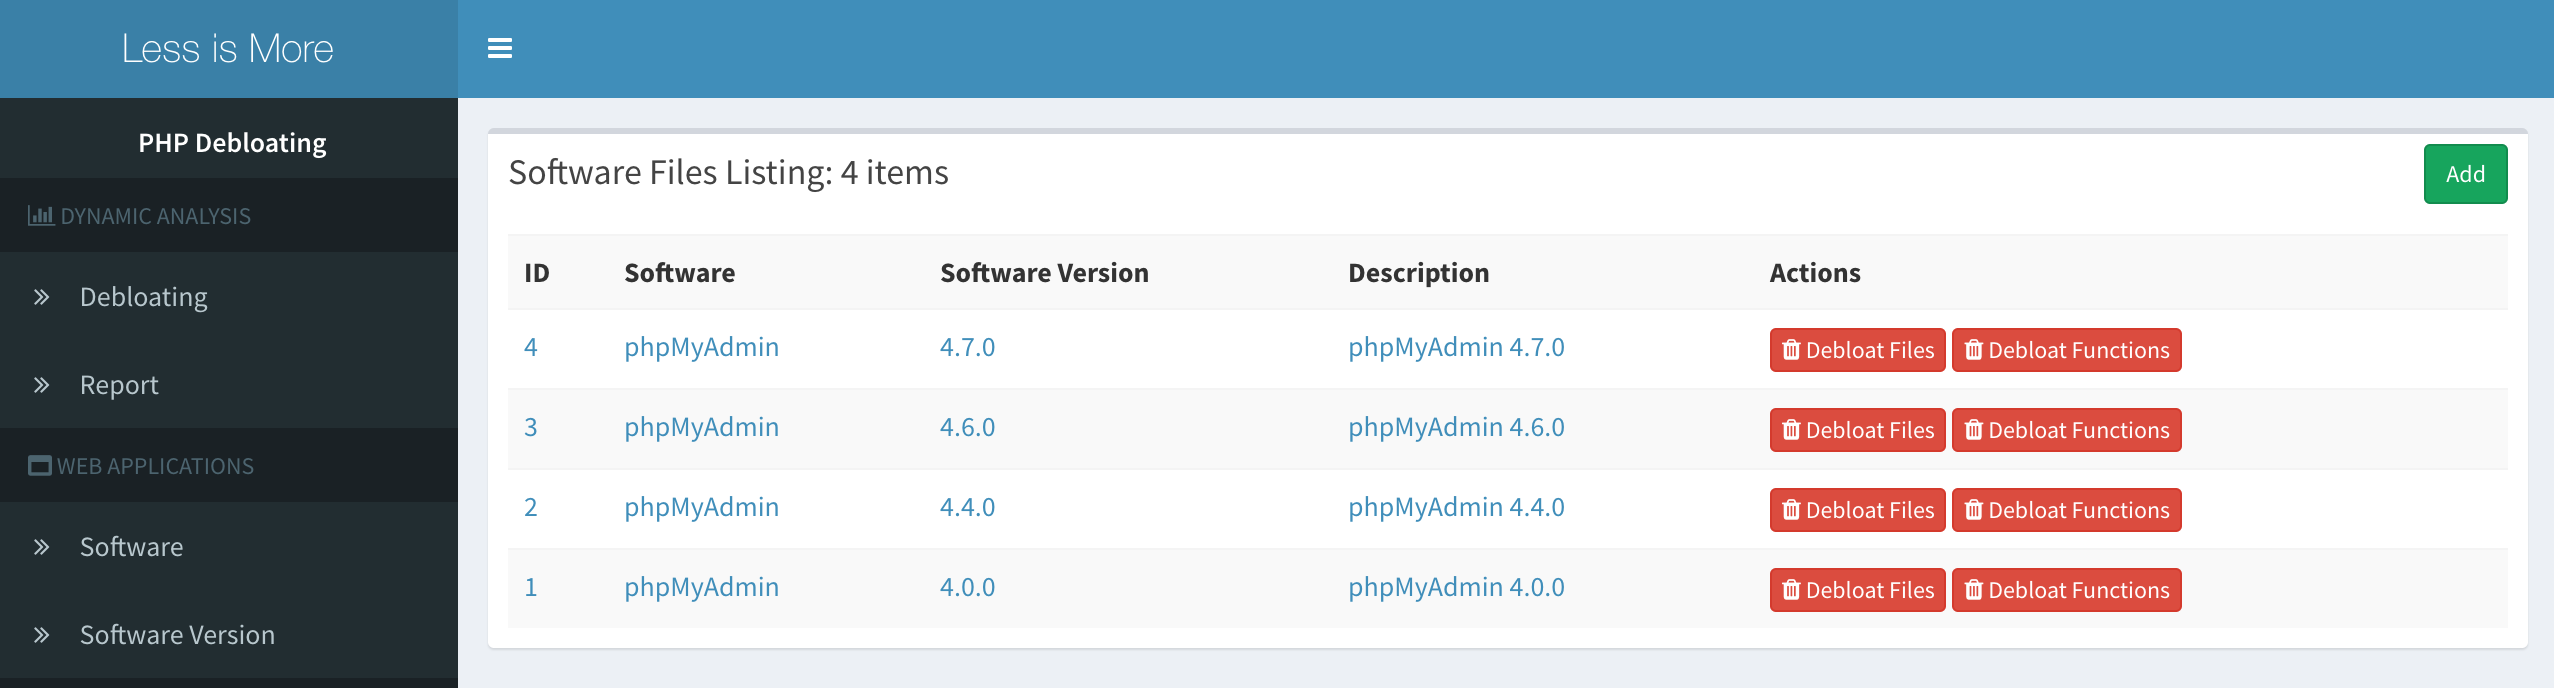
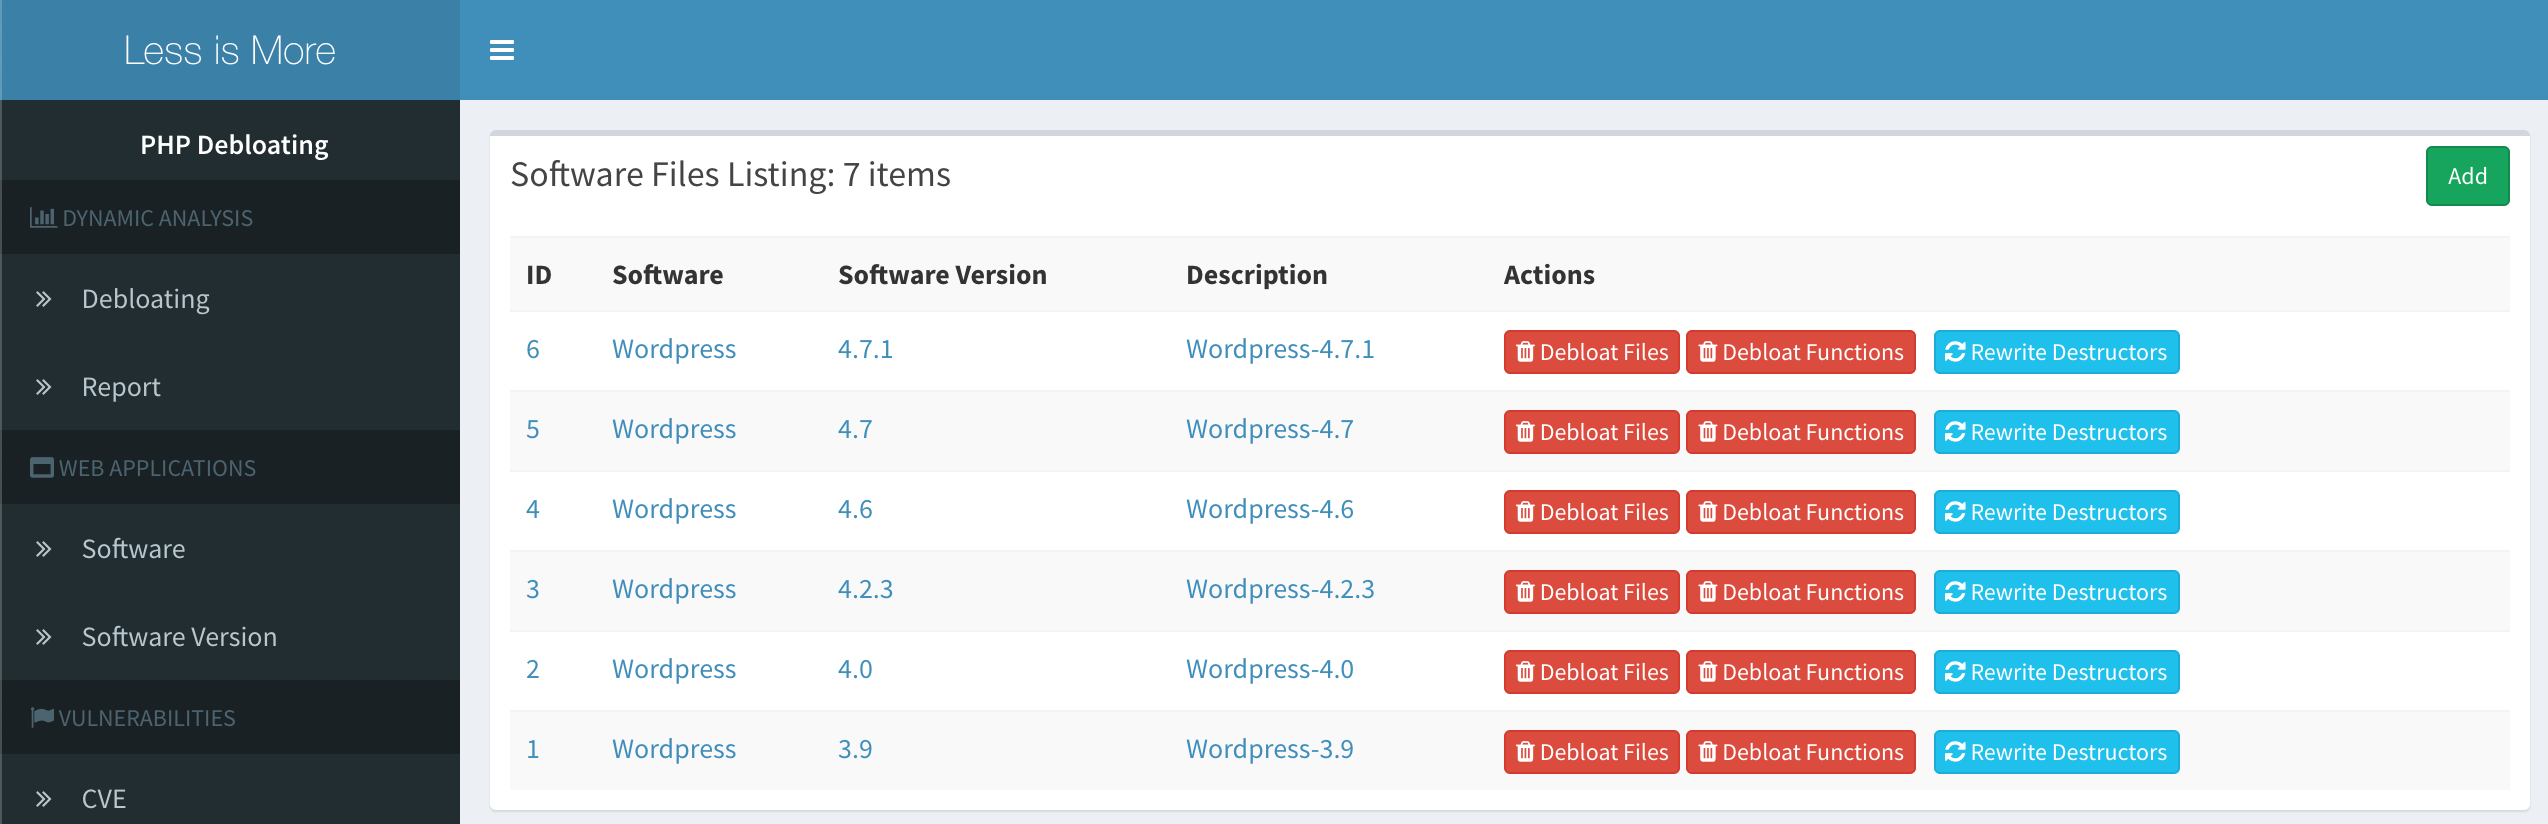
Added rewrite destructors

diff --git a/walkthrough.html b/walkthrough.html
@@ -230,6 +230,8 @@
         </div>
         <br />
         <b>- Performing file and function level debloating</b>
+        <br />
+        After adding the application, click on "Rewrite Destructors" before running any tests to make sure the debloating engine records the correct code coverage for all destructors within the application. This action needs to be done only once and will rewrite destructors to match our scheme.
         <div class="row">
             <div class="col-lg-2"></div><div class="col-lg-8">
               <a href="images/debloating_applications.png" data-toggle="lightbox" data-title="Performing file and function level debloating">
